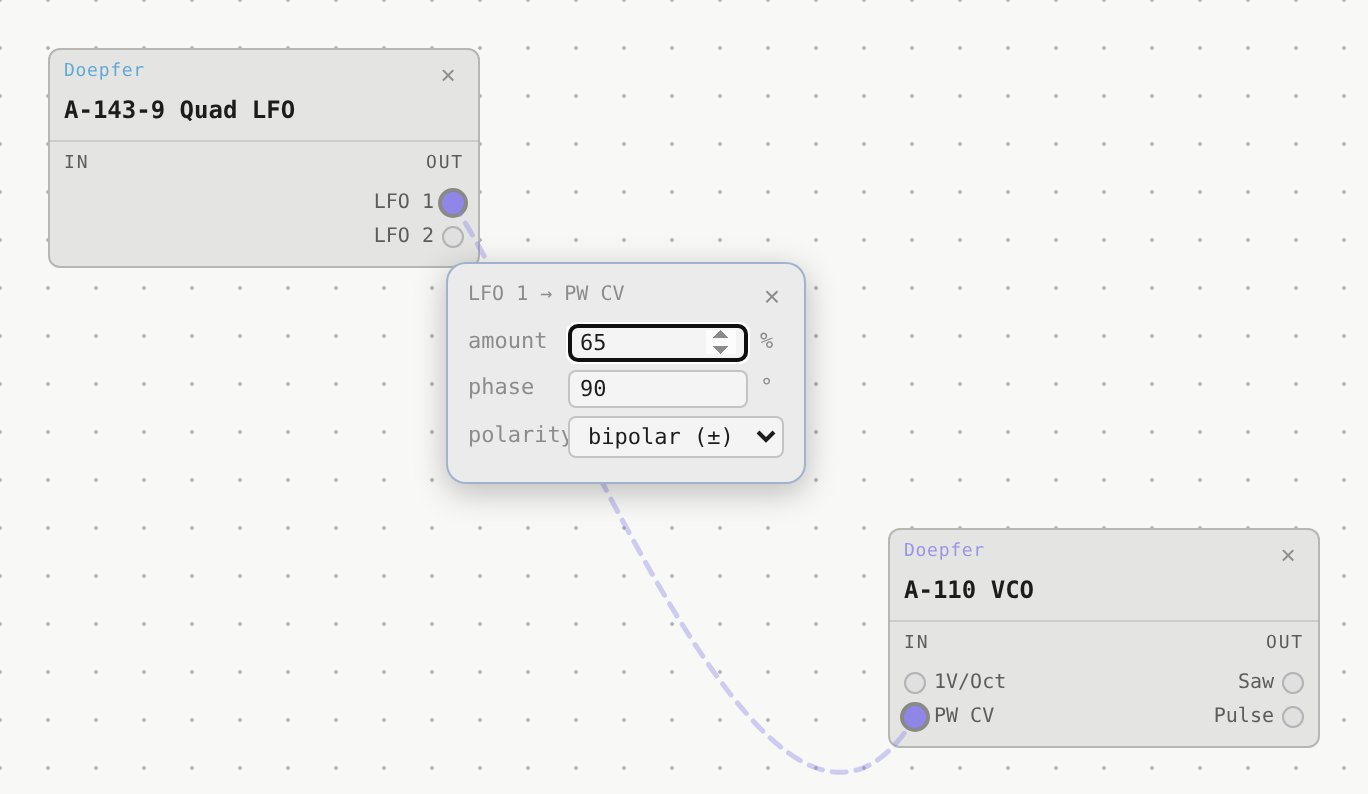
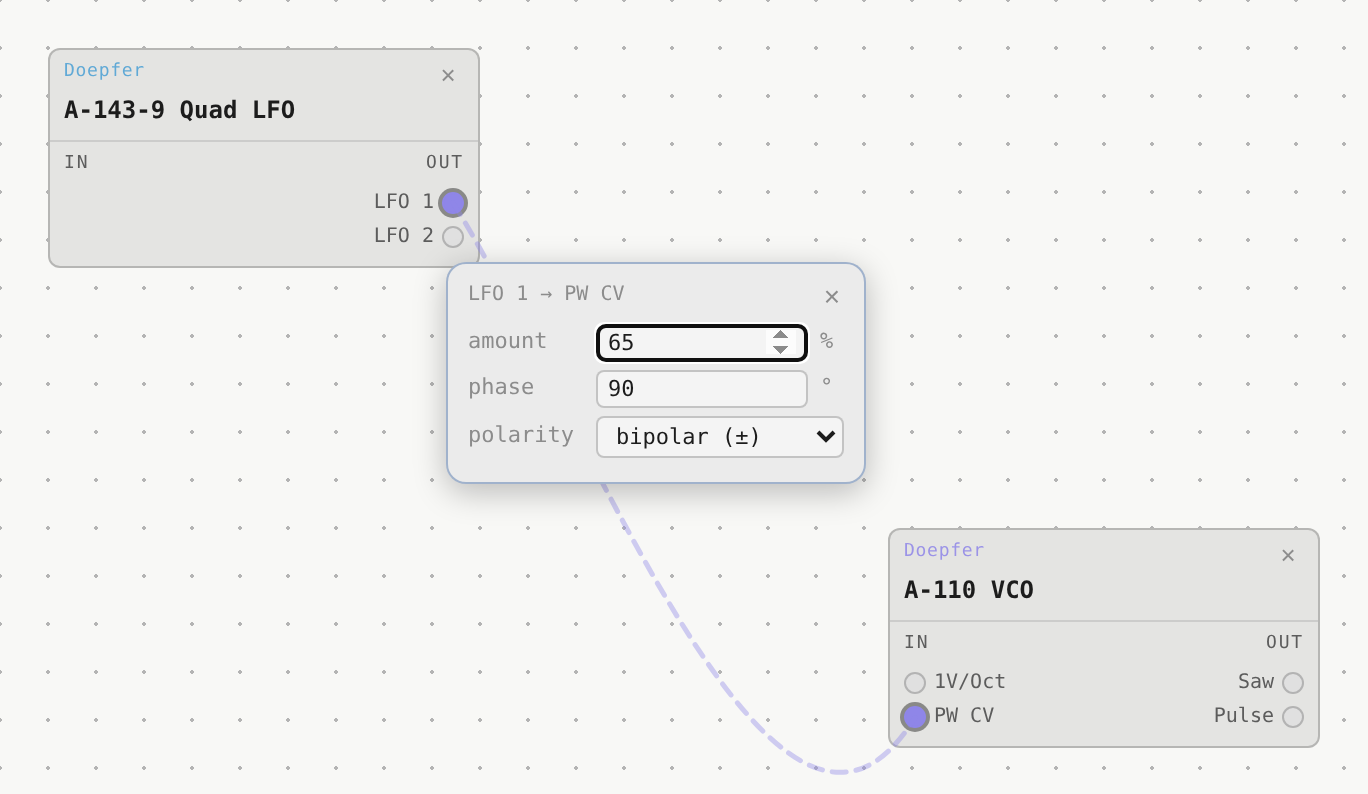
Fix "polarity" label getting cut off in the cable modulation popup
The label column was 44px, wide enough for "amount"/"phase" but not
"polarity" — its text overflowed into the dropdown next to it and got
visually clipped. Widened the label column to 58px and the popup from
180px to 210px to fit it comfortably, and added overflow:hidden as a
safety net for any future longer label. Re-generated the README
screenshot to reflect the fix.

Changed region(s): [[0.4298, 0.3627, 0.6447, 0.6348], [0.3991, 0.3929, 0.4605, 0.5139]]

diff --git a/public/css/style.css b/public/css/style.css
@@ -362,7 +362,7 @@ html, body {
   display: none;
   position: fixed;
   z-index: 500;
-  width: 180px;
+  width: 210px;
   padding: 8px 10px;
   background: var(--bg1);
   border: 0.5px solid var(--border2);
@@ -382,7 +382,8 @@ html, body {
   display: flex; align-items: center; gap: 6px; margin-bottom: 4px;
 }
 .cable-mod-popup-row label {
-  width: 44px; flex-shrink: 0; color: var(--text2);
+  width: 58px; flex-shrink: 0; color: var(--text2);
+  white-space: nowrap; overflow: hidden;
 }
 .cable-mod-popup-row input, .cable-mod-popup-row select {
   flex: 1; min-width: 0; font-size: 11px; padding: 2px 5px;
